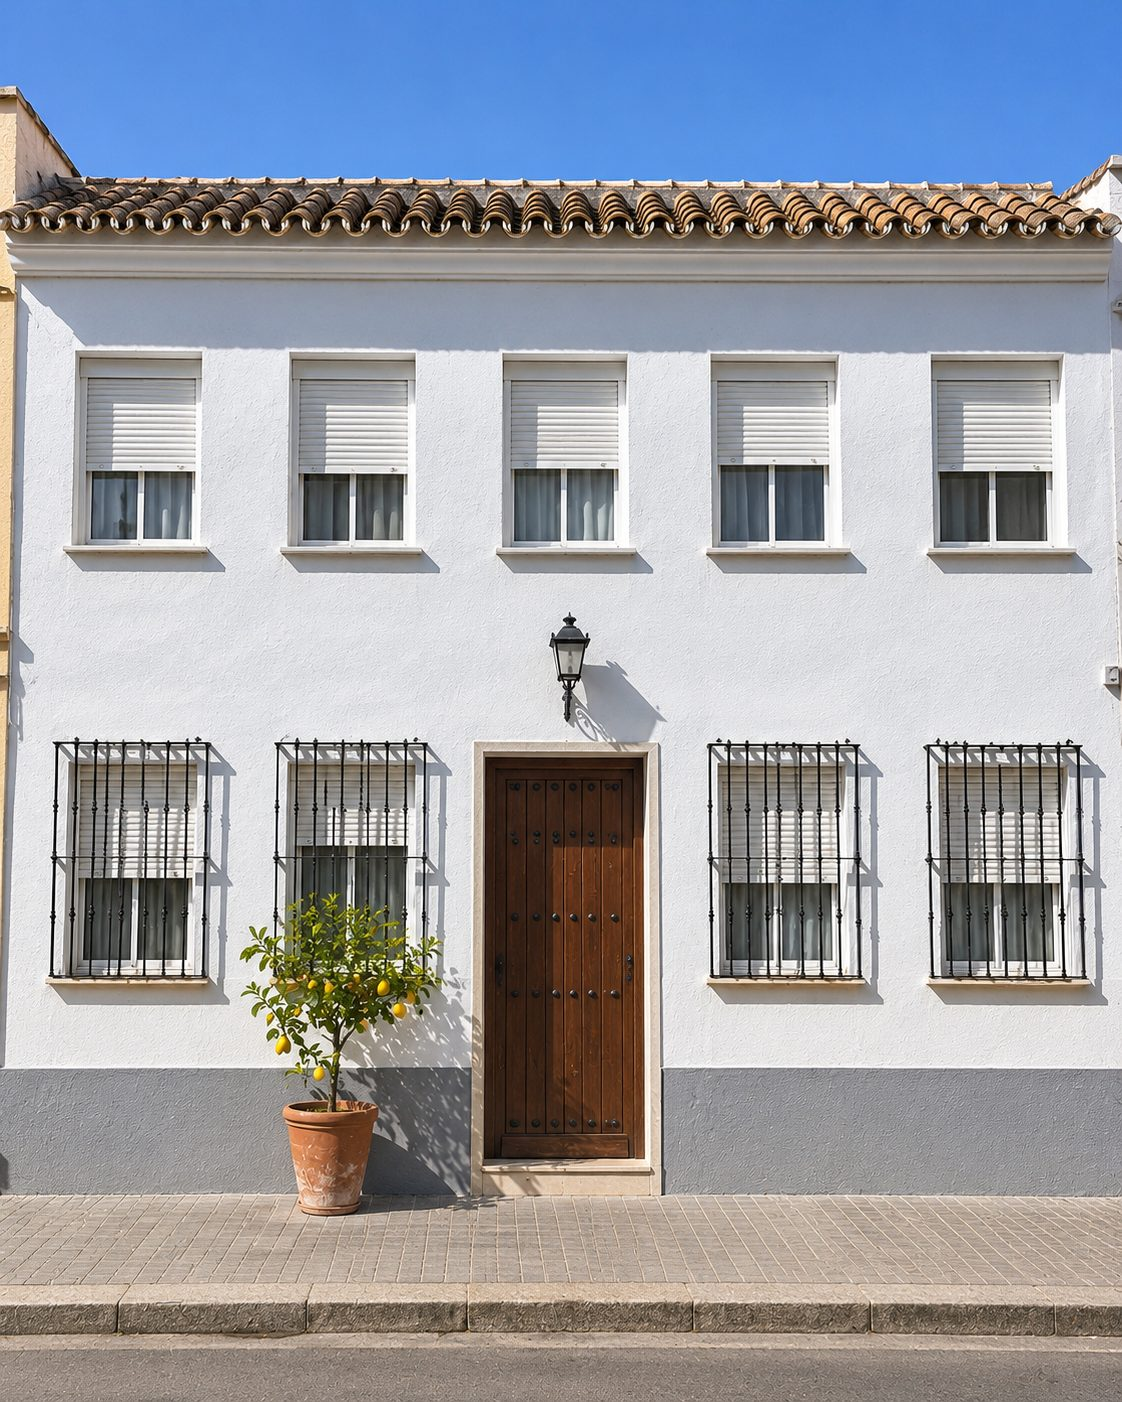
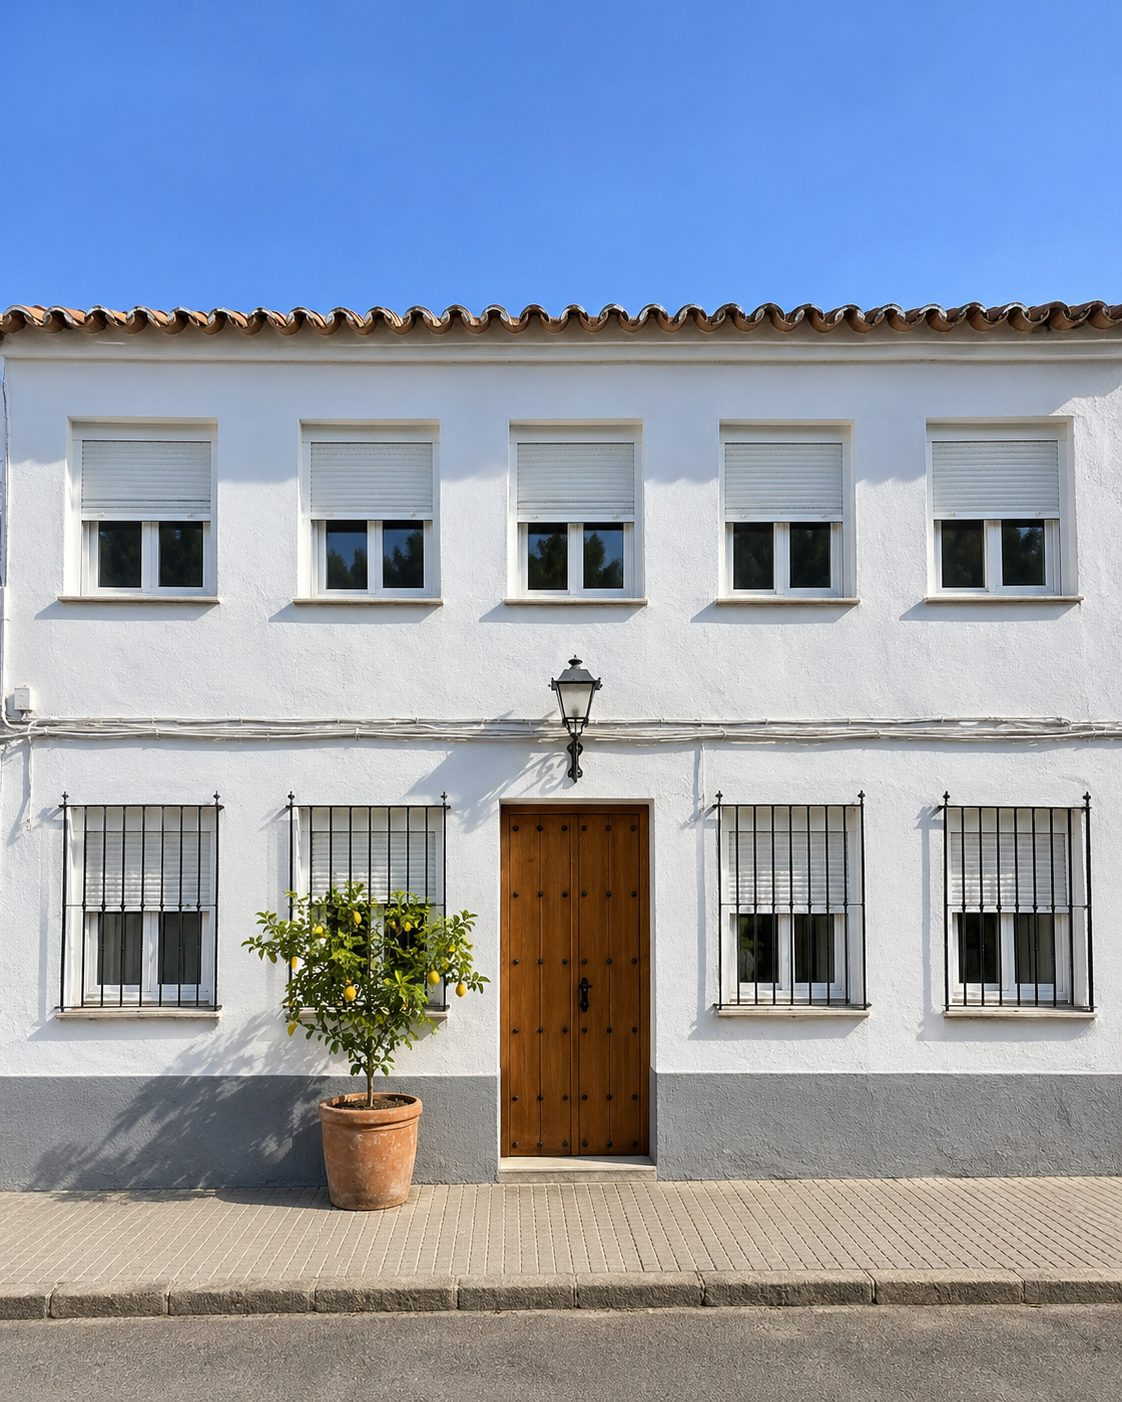
carpinteria-metalica-6: fotos IA de fachada-03 (antes y después) y fachada-05
Claude-Session: https://claude.ai/code/session_017SzXSabBWx39gemR39Dh7L

diff --git a/templates/carpinteria-metalica/carpinteria-metalica-6/public/ejemplo/CREDITOS.md b/templates/carpinteria-metalica/carpinteria-metalica-6/public/ejemplo/CREDITOS.md
@@ -1,6 +1,6 @@
 # Fotos de ejemplo de «Fachada nueva» (carpinteria-metalica-6)
 
-**Estado (24/11/2026):** 14 fotos ya son de IA (ChatGPT; prompts en `docs/fotos-ejemplo/carpinteria-metalica-6/prompts-chatgpt.md`). Siguen de relleno gris `fachada-03-antes.jpg` y `fachada-05.jpg`, **pendientes de la foto generada con IA** según la ficha de estilo fotográfico del encargo (§10) y la entrega de Claude Design (§7). Foto ancla: `fachada-01-despues.jpg`. Cada «antes» se genera **a partir de su después** (inpainting solo en carpinterías, persianas y cierros), con la misma semilla, luz y encuadre. En `site.config.ts` todas llevan `origen: "ia"` (etiqueta «Imagen generada con IA»).
+**Estado (25/11/2026):** las 16 fotos son de IA (ChatGPT; prompts en `docs/fotos-ejemplo/carpinteria-metalica-6/prompts-chatgpt.md`). Foto ancla: `fachada-01-despues.jpg`. Cada «antes» se genera **a partir de su después** (inpainting solo en carpinterías, persianas y cierros), con la misma semilla, luz y encuadre. En `site.config.ts` todas llevan `origen: "ia"` (etiqueta «Imagen generada con IA»).
 
 Al sustituirlas: mismo nombre, JPG calidad ~82, recortado a la proporción indicada, lado largo ≤ 1600 px (docs/nuevo-template.md, paso 9). Origen: «Generada con IA (ChatGPT, OpenAI)». Las fotos de fachada se recortan también a 4:3 en pantalla (ficha del trabajo): deja aire alrededor.
 
@@ -12,11 +12,11 @@ El servicio «Cerramientos de azotea» no lleva foto a propósito: prueba la tar
 | `fachada-01-antes.jpg` | La misma imagen: ventanas de aluminio blanco amarillento, persianas de lamas con lamas rotas y una torcida, dos aparatos de aire acondicionado, algo de suciedad real en los alféizares | 4:5 | Hero (antes/después) y trabajo «Ventanas de un bloque en Dos Hermanas» | IA (ChatGPT) |
 | `fachada-02-despues.jpg` | Primer piso de ladrillo en Nervión, cierro de balcón nuevo de aluminio blanco con vidrio, macetas detrás | 4:5 | Trabajo «Cierro nuevo en Nervión» | IA (ChatGPT) |
 | `fachada-02-antes.jpg` | La misma imagen: cierro de hierro con óxido en la base y un cristal rayado | 4:5 | Trabajo «Cierro nuevo en Nervión» | IA (ChatGPT) |
-| `fachada-03-despues.jpg` | Casa encalada de dos plantas en Mairena del Aljarafe, nueve ventanas de PVC gris antracita con persianas a juego | 4:5 | Trabajo «Casa en Mairena del Aljarafe» | IA (ChatGPT) |
-| `fachada-03-antes.jpg` | La misma imagen: ventanas de aluminio anodizado bronce y persianas de PVC descoloridas | 4:5 | Trabajo «Casa en Mairena del Aljarafe» | Relleno |
+| `fachada-03-despues.jpg` | Casa encalada de dos plantas en Mairena del Aljarafe, nueve ventanas de PVC blanco con persianas a juego | 4:5 | Trabajo «Casa en Mairena del Aljarafe» | IA (ChatGPT) |
+| `fachada-03-antes.jpg` | La misma imagen: ventanas de aluminio anodizado bronce y persianas de PVC descoloridas | 4:5 | Trabajo «Casa en Mairena del Aljarafe» | IA (ChatGPT) |
 | `fachada-04-despues.jpg` | Fachada de un piso en Alcalá de Guadaíra, cinco persianas nuevas de aluminio térmico gris a media altura | 4:5 | Trabajo «Persianas en Alcalá de Guadaíra» | IA (ChatGPT) |
 | `fachada-04-antes.jpg` | La misma imagen: persianas de lamas rotas, una caída del todo | 4:5 | Trabajo «Persianas en Alcalá de Guadaíra» | IA (ChatGPT) |
-| `fachada-05.jpg` | Azotea de un adosado en Tomares cerrada con aluminio blanco y vidrio, vista desde la calle | 4:5 | Trabajo «Azotea cerrada en Tomares» (sin antes) | Relleno |
+| `fachada-05.jpg` | Azotea de un adosado en Tomares cerrada con aluminio gris y vidrio, vista desde la calle | 4:5 | Trabajo «Azotea cerrada en Tomares» (sin antes) | IA (ChatGPT) |
 | `servicio-cambio-ventanas.jpg` | Plano medio de una ventana nueva de PVC blanco en ladrillo visto, desde la calle | 4:3 | Tarjeta y ficha de su servicio | IA (ChatGPT) |
 | `servicio-cierros.jpg` | Cierro de balcón de aluminio blanco en un primer piso, macetas tras el cristal | 4:3 | Tarjeta y ficha de su servicio | IA (ChatGPT) |
 | `servicio-persianas.jpg` | Tres persianas térmicas grises a medio bajar en una fachada al sol | 4:3 | Tarjeta y ficha de su servicio | IA (ChatGPT) |
